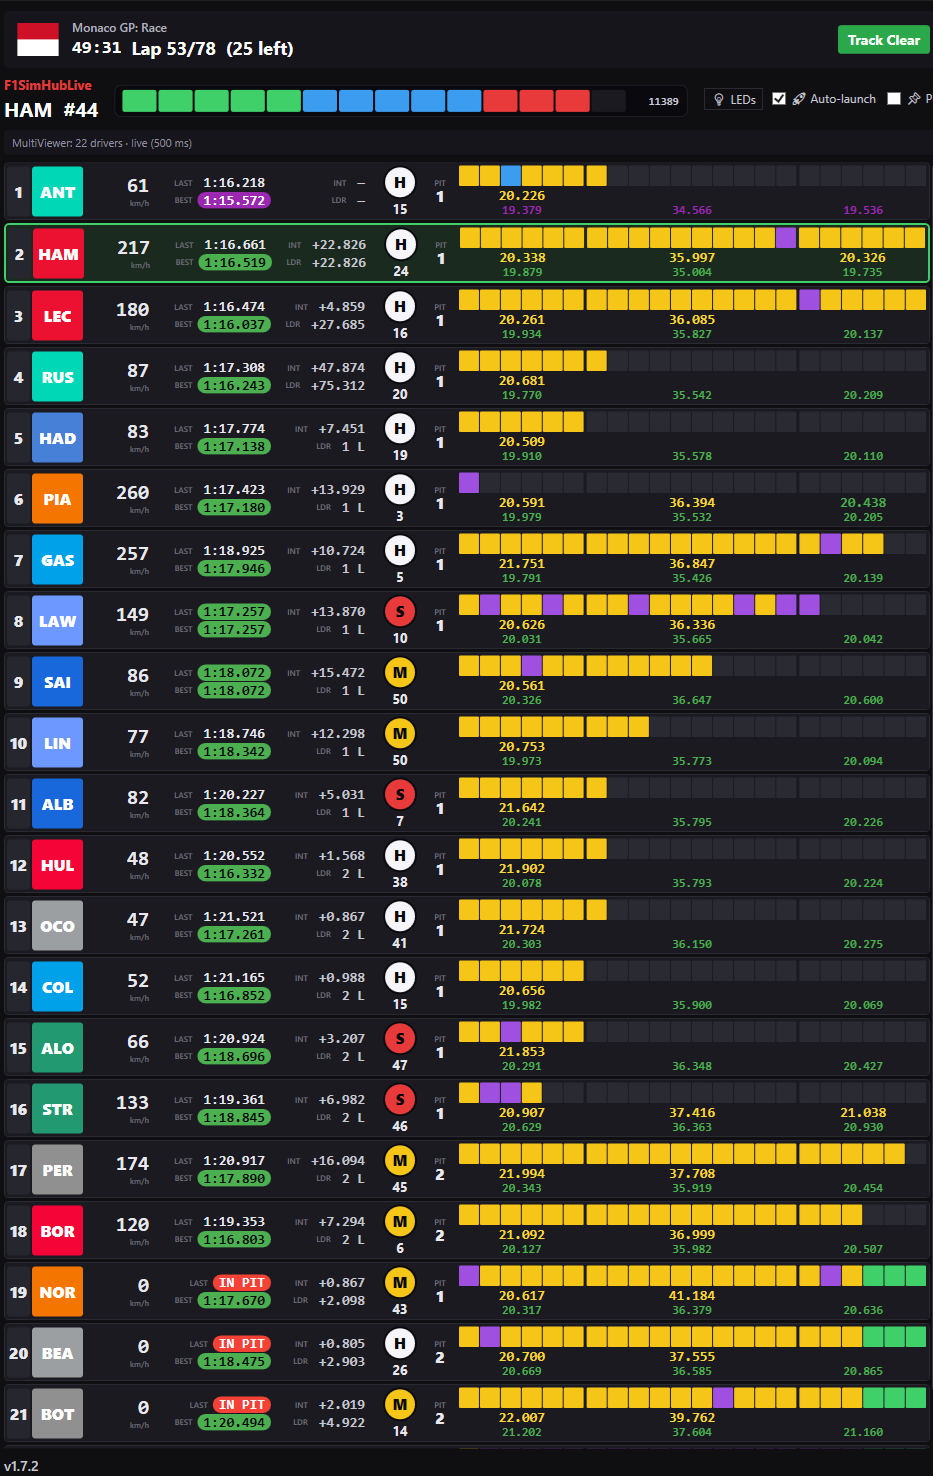
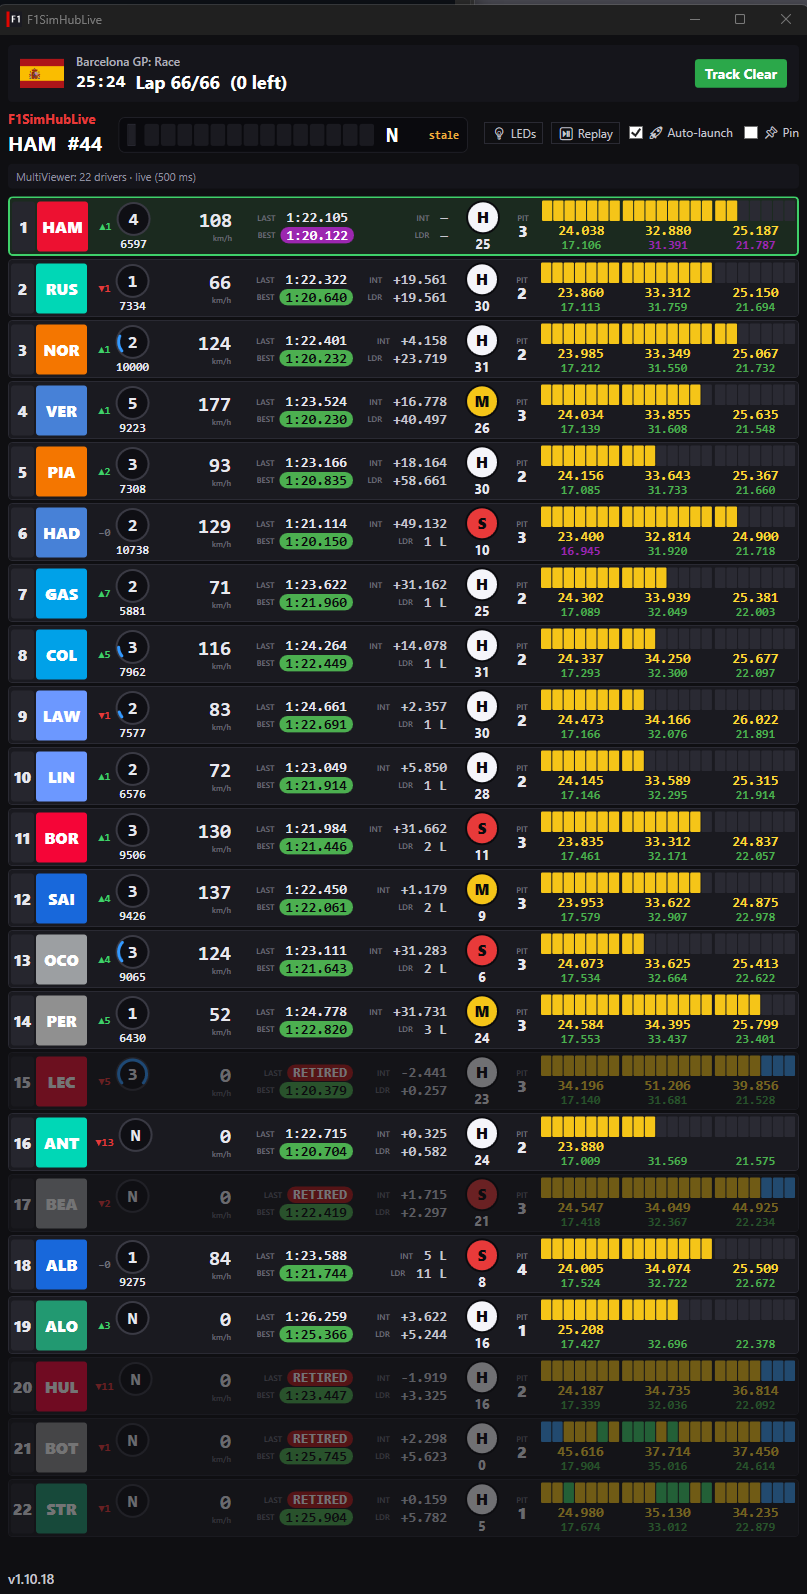
docs: refresh picker hero shot to Hamilton's first Ferrari win (Barcelona) + positive intro
Replaced the v1.7.2-era picker-overview.png with a real 2026 Barcelona GP capture on v1.10.18 showing HAM #44 winning at P1 (session-best 1:20.122 in purple), position arrows, retired rows (LEC/BEA/HUL/BOT/STR), and the per-driver input cluster. Reframed the Driver Picker intro around Hamilton's first win in Ferrari red instead of the old 'Hamilton crashes, flip to Antonelli' framing, and rewrote the caption to match the actual screenshot.

diff --git a/README.md b/README.md
@@ -521,23 +521,23 @@ The plugin doesn't just drive the LCD — the same race-control flag state light
 
 ## Driver Picker (mid-race driver switching + live timing)
 
-Hamilton crashes on lap 23. You want to flip the wheel to Antonelli without
-stopping SimHub, editing JSON, and sitting through MultiViewer's ~30-second
-warm-up after a restart. That's what the **F1SimHubLive Driver Picker** is for
-— plus, since v1.2.0, it doubles as a full-screen live-timing replica of
-MultiViewer with per-driver speed, lap times, gap/interval, tyre stints, pit
-counts, and PB/SB-coloured sector strips.
+Lewis Hamilton takes the chequered flag at Barcelona for his **first win in
+Ferrari red** — you want the wheel locked on HAM #44 for that final lap, but
+ten laps ago you were following the midfield scrap. The **F1SimHubLive Driver
+Picker** lets you flip the wheel to any driver on the fly — no stopping SimHub,
+no editing JSON, no sitting through MultiViewer's ~30-second warm-up after a
+restart. Plus, since v1.2.0, it doubles as a full-screen live-timing replica of
+MultiViewer with per-driver speed, gear/throttle/RPM, lap times, gap/interval,
+tyre stints, pit counts, position changes, and PB/SB-coloured sector strips.
 
 <!--
   Screenshot: docs/screenshots/picker-overview.png
-  RE-SHOOT NEEDED (current file is from the v1.7.2 era and predates the
-  per-driver input cluster, position-change arrows, and retired-row styling).
-  To replace: run a Race in MultiViewer (or load a race in the Replay panel),
-  let the field settle a few laps in so gaps/sectors/arrows are populated, pick
-  a mid-pack driver, then capture the whole picker window and overwrite this
-  same file (keep the name `picker-overview.png` so the link below just works).
+  Current shot: 2026 Barcelona GP — Hamilton's first win as a Ferrari driver.
+  To re-shoot: capture the whole picker window during a Race (a few laps in so
+  gaps/sectors/arrows are populated, a notable driver selected), then overwrite
+  this same file (keep the name `picker-overview.png` so the link below works).
 -->
-![Driver Picker full live-timing view captured during a Race — header shows the session, lap counter and time remaining with the selected driver's live RPM bar and input cluster; the full field is sorted by position with team-coloured TLA tiles, a per-driver gear/throttle/RPM cluster, live speed in km/h, ▲/▼ positions gained-or-lost vs. grid, last and best lap times, INT and LDR gaps, tyre compound pills with stint age, pit counts, and per-driver three-row sector strips with PB/SB colour coding. Retired cars show a maroon RETIRED pill and fade back to 42% opacity.](docs/screenshots/picker-overview.png)
+![F1SimHubLive Driver Picker during the 2026 Barcelona GP — Lewis Hamilton's first win as a Ferrari driver. Header reads "Barcelona GP: Race, 25:24, Lap 66/66 (0 left)" with a green "Track Clear" pill; HAM #44 is selected at P1 (green border) with his session-best lap 1:20.122 in purple. The full 22-driver field is sorted by position with team-coloured TLA tiles, a per-driver gear/throttle/RPM input cluster, live speed in km/h, ▲/▼ positions gained-or-lost vs. grid, LAST and BEST lap times, INT and LDR gaps, tyre compound pills with stint age, pit counts, and three-row sector strips with PB/SB colour coding. Retired cars (LEC, BEA, HUL, BOT, STR) show a maroon RETIRED pill and fade back to 42% opacity. Bottom-left version reads v1.10.18.](docs/screenshots/picker-overview.png)
 
 **Full UI reference: [PICKER.md](PICKER.md)** — every element, every colour,
 every interaction, plus screenshots and troubleshooting.

diff --git a/CHANGELOG.md b/CHANGELOG.md
@@ -7,7 +7,7 @@ Format follows [Keep a Changelog](https://keepachangelog.com/). Dates in `YYYY-M
 ## [Unreleased]
 
 ### Docs
-- **Refreshed `README.md` + `PICKER.md` to cover the features added since the screenshot/text were last updated (the v1.7.x era).** The README Driver Picker section now documents the per-driver gear/throttle/RPM input cluster, the positions-gained/lost-vs-grid arrows (▲/▼), the retired-car treatment (maroon `RETIRED` pill + 42% row fade), the parked/broken-car frozen-telemetry suppression, and the built-in Replay panel; `PICKER.md` gains a *Positions gained / lost vs grid* section, a *Retired / out-of-race treatment* section, the position-arrow column entry, and version-history rows for v1.8.0 (Replay panel) and v1.10.15–v1.10.18. The `picker-overview.png` hero screenshot is flagged for re-shoot (caption rewritten to the current UI) and the picker TOC anchor was fixed.
+- **Refreshed `README.md` + `PICKER.md` to cover the features added since the screenshot/text were last updated (the v1.7.x era).** The README Driver Picker section now documents the per-driver gear/throttle/RPM input cluster, the positions-gained/lost-vs-grid arrows (▲/▼), the retired-car treatment (maroon `RETIRED` pill + 42% row fade), the parked/broken-car frozen-telemetry suppression, and the built-in Replay panel; `PICKER.md` gains a *Positions gained / lost vs grid* section, a *Retired / out-of-race treatment* section, the position-arrow column entry, and version-history rows for v1.8.0 (Replay panel) and v1.10.15–v1.10.18. The `picker-overview.png` hero screenshot was refreshed to the 2026 Barcelona GP (Hamilton's first win as a Ferrari driver, shot on v1.10.18) and the picker intro was reframed around that win; the picker TOC anchor was fixed.
 
 - **Verified the full qualifying clock behaviour (Q1→Q2→Q3) on a Barcelona replay** and recorded the captured timeline in [`docs/CLOCKS.md`](docs/CLOCKS.md). Confirmed MV uses a **two-phase per-segment re-anchor** (stages the next segment frozen with `Extrapolating=false`, then flips to `true` at green) and that both surfaces follow each reset to ~1s with no segment-detection code, while the `SessionEnd − playhead` fallback was 40–58 min wrong through Q1/Q2. Updated the verification-status banner (practice + race + full qualifying now replay-verified; live still pending).
 
